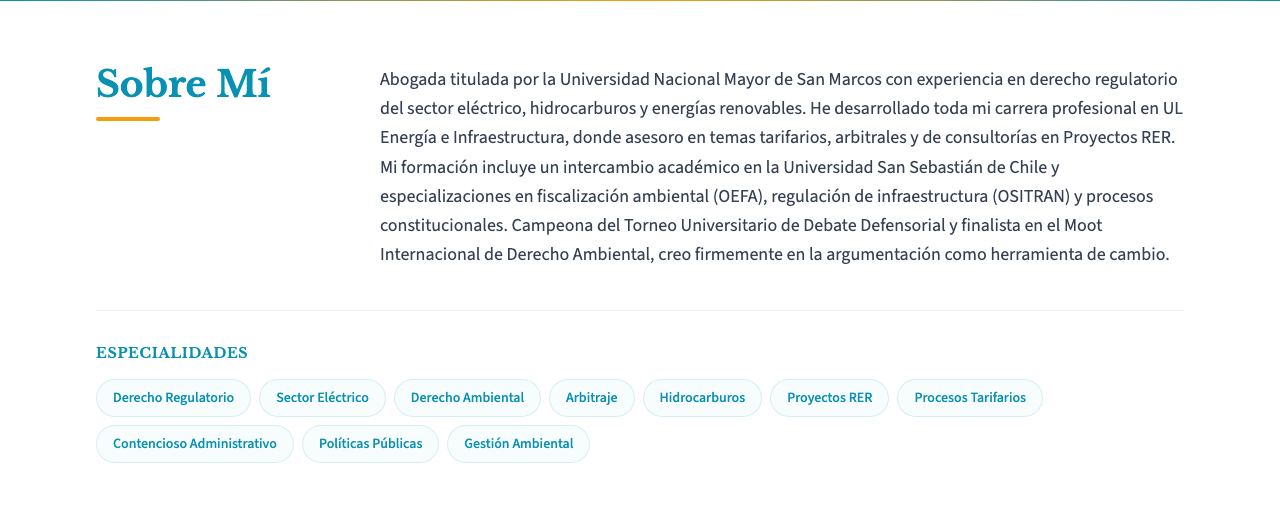
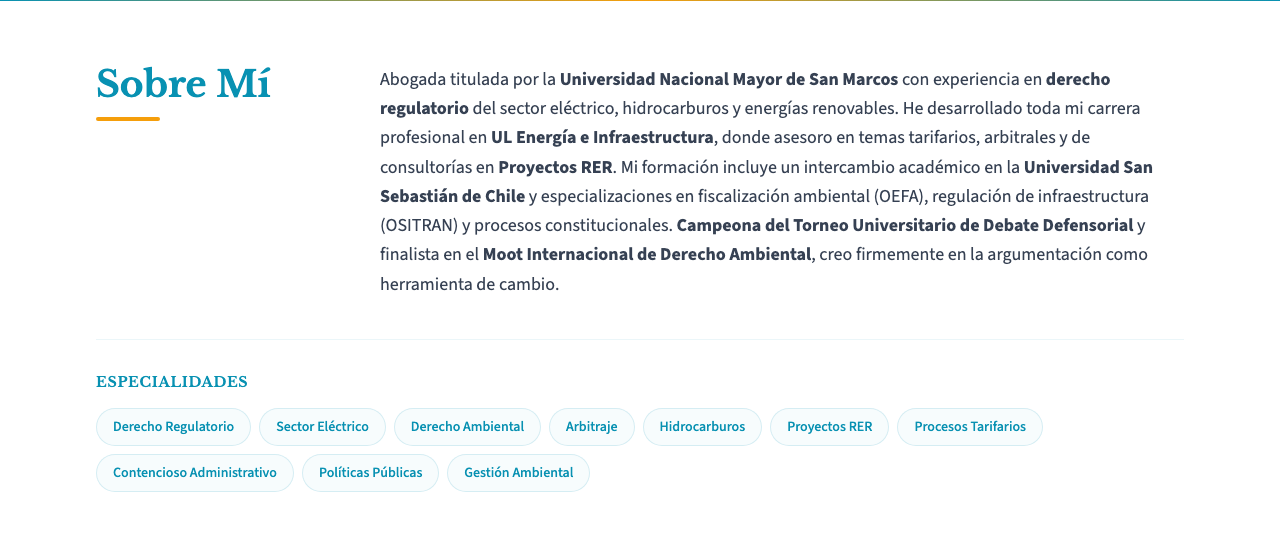
sync: source code at deploy time

diff --git a/src/config.ts b/src/config.ts
@@ -26,7 +26,7 @@ export const siteConfig = {
   },
 
   aboutMe:
-    "Abogada titulada por la Universidad Nacional Mayor de San Marcos con experiencia en derecho regulatorio del sector eléctrico, hidrocarburos y energías renovables. He desarrollado toda mi carrera profesional en UL Energía e Infraestructura, donde asesoro en temas tarifarios, arbitrales y de consultorías en Proyectos RER. Mi formación incluye un intercambio académico en la Universidad San Sebastián de Chile y especializaciones en fiscalización ambiental (OEFA), regulación de infraestructura (OSITRAN) y procesos constitucionales. Campeona del Torneo Universitario de Debate Defensorial y finalista en el Moot Internacional de Derecho Ambiental, creo firmemente en la argumentación como herramienta de cambio.",
+    "Abogada titulada por la <strong>Universidad Nacional Mayor de San Marcos</strong> con experiencia en <strong>derecho regulatorio</strong> del sector eléctrico, hidrocarburos y energías renovables. He desarrollado toda mi carrera profesional en <strong>UL Energía e Infraestructura</strong>, donde asesoro en temas tarifarios, arbitrales y de consultorías en <strong>Proyectos RER</strong>. Mi formación incluye un intercambio académico en la <strong>Universidad San Sebastián de Chile</strong> y especializaciones en fiscalización ambiental (OEFA), regulación de infraestructura (OSITRAN) y procesos constitucionales. <strong>Campeona del Torneo Universitario de Debate Defensorial</strong> y finalista en el <strong>Moot Internacional de Derecho Ambiental</strong>, creo firmemente en la argumentación como herramienta de cambio.",
 
   skills: [
     "Derecho Regulatorio",
@@ -47,6 +47,7 @@ export const siteConfig = {
       description:
         "Co-autora y ponente del artículo sobre el proceso administrativo de la Consulta Previa, presentado en el Congreso de Talleres de la UNMSM.",
       link: "",
+      icon: "UNMSM",
       skills: ["Derecho Administrativo", "Consulta Previa", "Investigación"],
     },
     {
@@ -54,6 +55,7 @@ export const siteConfig = {
       description:
         "Co-autora del documento elaborado como Vocera de Lima Metropolitana del Voluntariado Ambiental Juvenil del MINAM.",
       link: "",
+      icon: "MINAM",
       skills: ["Derecho Ambiental", "Políticas Públicas", "MINAM"],
     },
     {
@@ -61,6 +63,7 @@ export const siteConfig = {
       description:
         "Finalista en el Moot Internacional de Derecho Ambiental. Equipo Mayuriq Pacha, segundo lugar en el primer Moot ambiental del Perú.",
       link: "",
+      icon: "Defensoría del Pueblo",
       skills: ["Litigación", "Derecho Ambiental", "Oratoria"],
     },
     {
@@ -68,6 +71,7 @@ export const siteConfig = {
       description:
         "Asesoría legal en proyectos de Recursos Energéticos Renovables, incluyendo análisis regulatorio y procesos tarifarios ante OSINERGMIN.",
       link: "",
+      icon: "OSINERGMIN",
       skills: ["Energías Renovables", "Regulación", "OSINERGMIN"],
     },
   ],

diff --git a/src/utils/icons.ts b/src/utils/icons.ts
@@ -15,7 +15,7 @@ export interface IconInfo {
 const iconsDir = path.join(process.cwd(), "public", "icons");
 
 export function getIconInfo(name: string): IconInfo {
-  const key = name.toLowerCase().replace(/[\s./+#\-]+/g, "");
+  const key = name.normalize("NFD").replace(/[\u0300-\u036f]/g, "").toLowerCase().replace(/[\s./+#\-\u2014\u2013\u2012]+/g, "");
 
   const candidates = [
     key,

diff --git a/qa-screenshots/qa-checklist.md b/qa-screenshots/qa-checklist.md
@@ -1,71 +1,96 @@
 # QA Report: Rosalinda Sanchez Chagua
 
-**Date:** 2026-03-26
+**Date:** 2026-03-31
 **URL:** https://rosalinda-sanchez.cofoundy.dev
 **Tier:** Pro (S/.120)
-**Status:** FAIL
+**Status:** PASS WITH WARNINGS
 
 ## Technical Health
 - [x] HTML 200
-- [x] CSS 200
-- [x] Profile image 200
-- [x] Favicon 200
-- [x] OG image 200
-- [x] Guia PDF 200
-- [ ] CV PDF — **404 (CRITICAL — Pro tier includes Harvard CV)**
+- [x] CSS 200 (/_astro/index.BKMl1mhV.css)
+- [x] Profile 200 (profile.png)
+- [x] Favicon 200 (favicon.svg)
+- [x] OG image 200 (og.jpg)
+- [x] Guia PDF 200 (guia.pdf)
+- [x] CV PDF 200 (cv.pdf)
+- [x] All 14 icon files in /icons/ return HTTP 200
+- [x] Google Fonts loaded (Libre Baskerville + Source Sans 3)
 
 ## Visual — Desktop (1280px)
-- [x] CSS loaded, site fully styled (Pro template)
-- [x] Profile photo visible, natural background, cyan/amber frame
-- [x] Name correct: "Rosalinda Sanchez Chagua"
-- [x] Title correct: "Abogada — Derecho Regulatorio, Ambiental y Arbitral"
-- [x] Colors match config: cyan #0891b2 accent + amber #f59e0b highlight
-- [x] Fonts loaded (Libre Baskerville + Source Sans 3)
-- [x] All 6 sections render: Hero, About, Projects, Experience, Education, Footer
+- [x] CSS loaded and styled correctly
+- [x] Profile photo visible — high-quality professional photo, no broken image
+- [x] Name correct — "Rosalinda Sanchez Chagua" matches config.ts
+- [x] Title visible — "Abogada — Derecho Regulatorio, Ambiental y Arbitral"
+- [x] Colors match — cyan (#0891b2) accent + amber (#f59e0b) highlight, consistent with form request
+- [x] Fonts loaded — Libre Baskerville (headings) + Source Sans 3 (body)
+- [x] All 6 sections render (hero, about, projects, experience, education, footer)
 - [x] No horizontal overflow
 - [x] Spacing consistent across all sections
-- [x] Footer: "© 2026 Rosalinda Sanchez Chagua" — correct year and name
+- [x] Footer — copyright 2026, name correct, email + LinkedIn icons visible
 
 ## Visual — Mobile (375px)
-- [x] Name fits within 375px viewport, centered
-- [x] Photo properly sized within frame, no overflow
-- [x] Text legible, appropriate sizing
-- [x] Cards stack vertically (projects, experience, education)
+- [x] Name fits at 375px — no horizontal overflow
+- [x] Photo sized correctly — proportional within frame
+- [x] Text legible — appropriate sizes
+- [x] Cards stack vertically — projects and experience cards single-column
 - [x] No horizontal scroll
-- [x] Stats readable (4+, 4, UNMSM)
-- [x] Contact accessible in footer (email + LinkedIn icons)
+- [x] Stats readable — "4+", "4", "UNMSM" all fit
+- [x] Contact info accessible — email and LinkedIn icons in hero + footer
+- [ ] Nav is mobile-friendly — no visible hamburger menu (nav links are anchor scrolls only, acceptable for this layout)
 
 ## Client Preferences (form match)
-- [x] Style: "Minimalista y limpio, Colorido y llamativo" — Pro template with cyan+amber balances both
-- [x] Colors: "Cyan y otros combinables" — cyan primary + amber highlight matches
-- [x] No special requests in form
+- [x] Style matches — "Minimalista y limpio" + "Colorido y llamativo" → Pro template with cyan+amber is a good blend
+- [x] Colors match — "Cyan y otros combinables" → cyan #0891b2 accent + amber #f59e0b highlight
+- [x] LinkedIn included — correct verified URL (pe.linkedin.com/in/rosalinda-sanchez-chagua-1b26061b1)
+- [x] No domain requested — using cofoundy.dev subdomain (correct)
+- [x] No special requests — form said "No"
 - [x] No reference sites provided
-- [x] LinkedIn: form had /feed/ (invalid), research found real profile URL — correctly used
 
 ## Data Validation
-- [x] Name matches source exactly
-- [x] Email matches source (rosalinda.sanchez@unmsm.edu.pe)
-- [x] LinkedIn URL matches research (pe.linkedin.com/in/rosalinda-sanchez-chagua-1b26061b1)
-- [x] Company: UL Energía e Infraestructura — all 4 entries match CV
-- [x] Job titles match source (Abogada Junior, Asistenta Legal, Practicante Profesional, Practicante Preprofesional)
-- [x] Date ranges match source
-- [x] Education: UNMSM (2017-2023), USS Chile (2021-2022), OEFA/OSITRAN/TC (2022-2025) — all match
-- [x] Skills: 10 skills, all grounded in CV/research
-- [x] Projects: 4 entries match research achievements
-- [x] Stats: "4+" años, "4" idiomas, "UNMSM" — all verified from source
+- [x] Name matches source (CV + form + LinkedIn)
+- [x] Email matches source (rosalinda.sanchez@unmsm.edu.pe from CV/LinkedIn)
+- [x] LinkedIn URL verified and real
+- [x] Company "UL Energía e Infraestructura" matches CV
+- [x] Job titles match CV progression (Practicante Preprofesional → Profesional → Asistenta Legal → Abogada Junior)
+- [x] Date ranges match CV
+- [x] Education matches CV (UNMSM 2017-2023, USS Chile 2021-2022, OEFA/OSITRAN/TC courses)
+- [x] Achievements verified against research-notes.md (debate championship, Moot finalist, EJIDA coordinator)
+- [x] Stats accurate — "4+" years at UL (2022-present), "4" idiomas (ES/PT/DE/EN from CV), "UNMSM" correct
 - [x] No hallucinated data detected
 
 ## Clean Deploy
-- [x] No template default names or data
-- [x] No placeholder text or Lorem ipsum
+- [x] No template default names
+- [x] No Lorem ipsum or placeholder text
 - [x] No "undefined" or "null" values
+- [x] No template default social links
 - [x] Social links point to real profiles
-- [x] No template default colors (custom cyan + amber applied)
+- [x] No "<<" markers or TODO comments
 
 ## Issues Found
-1. **CRITICAL** — CV PDF returns 404. Pro tier includes Harvard CV as part of the deliverable. Must generate and push cv.pdf to gh-pages branch before delivery.
+
+### WARNING: Universidad San Sebastian icon not rendering
+- **Severity:** WARNING
+- **Location:** Education section, 2nd card
+- **Details:** The `BrandIcon` component receives `name="Universidad San Sebastián — Chile"` but the regex `[\s./+#\-]+` does not strip the em dash (U+2014) or accented characters (á in Sebastián). The computed key becomes `universidadsansebastián—chile` which does not match the file `universidadsansebastianchile.png`. The component renders nothing (clean absence, not a broken image), leaving an empty 12x12 placeholder box.
+- **Fix:** Either update `icons.ts` regex to also strip em dashes and normalize accents: `name.toLowerCase().normalize('NFD').replace(/[\u0300-\u036f]/g, '').replace(/[\s./+#\-\u2014\u2013]+/g, '')`, or change the school name in config.ts to `"Universidad San Sebastian - Chile"` (ASCII hyphen, no accent).
+
+### WARNING: 12 orphaned icon files in /public/icons/
+- **Severity:** WARNING (no user impact, minor bloat)
+- **Files not referenced by any component:** defensoriadelpueblo.png, linkedin.svg, minam.png, oefa.png, osinergmin.png, ositran.png, pucp.png, tribunalconstitucional.png, universidadnacionaldeatrujillo.png, universidadsansebastian.png, universidadsansebastianchile.png (would match if regex fixed), unmsm.png
+- **Details:** Only 2 of 14 icon files are actually rendered in HTML. The rest were placed in /public/icons/ but no component references their matching name strings. Education uses `edu.school` (matches UNMSM and OEFA/OSITRAN/TC combo), Experience uses `exp.company` (UL Energia has no icon file). Icons like MINAM, Defensoria, PUCP are mentioned in research-notes.md achievements/courses but those entities don't appear as `school` or `company` values in config.ts.
+- **Fix:** Either remove unused files to reduce deploy size, or add them where relevant (e.g., individual education entries for OEFA, OSITRAN, PUCP courses if config allowed per-achievement icons).
+
+### INFO: Experience section has no company logos
+- **Severity:** INFO (not a bug)
+- **Details:** All 4 experience entries are at "UL Energía e Infraestructura" — there is no icon file for this company, so BrandIcon renders nothing. The timeline circles (numbered 1-4) serve as visual anchors instead. This is acceptable since UL is a niche Peruvian firm unlikely to have a public logo in any icon library.
+
+### INFO: Form LinkedIn URL was generic
+- **Severity:** INFO (resolved correctly)
+- **Details:** The Google Form captured `https://www.linkedin.com/feed/` (generic feed URL, not a profile). The correct profile URL `https://pe.linkedin.com/in/rosalinda-sanchez-chagua-1b26061b1` was found during research and used in config.ts. This was the right call.
 
 ## Evidence
 - desktop-full.png
 - mobile-full.png
-- 12 section-level screenshots (6 desktop, 6 mobile)
+- desktop-hero.png, desktop-about.png, desktop-projects.png, desktop-experience.png, desktop-education.png, desktop-footer-5.png
+- mobile-hero.png, mobile-about.png, mobile-projects.png, mobile-experience.png, mobile-education.png, mobile-footer-5.png
+- manifest.json

diff --git a/delivery-message.md b/delivery-message.md
@@ -1,0 +1,14 @@
+# Delivery Message — Rosalinda Sanchez Chagua
+**WhatsApp:** 946520641
+**Tier:** Pro (S/.120)
+
+---
+
+Hola Rosalinda! La primera versión de tu portfolio ya está en vivo 🥳
+
+🌐 https://rosalinda-sanchez.cofoundy.dev
+📄 https://rosalinda-sanchez.cofoundy.dev/cv.pdf
+
+Tu plan incluye 1 ronda de revisión — si quieres ajustar algo, me avisas 😊
+
+Tu guía con todo lo que incluye: https://rosalinda-sanchez.cofoundy.dev/guia.pdf ✌
